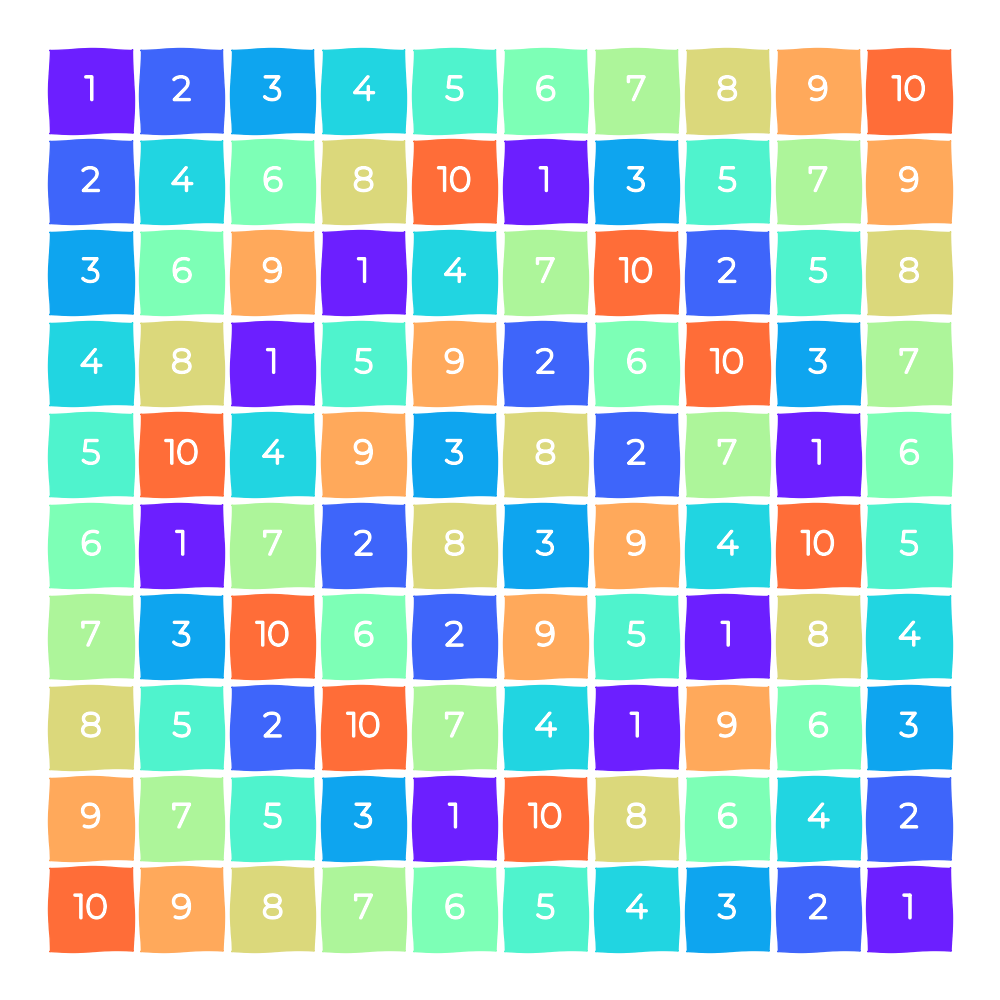
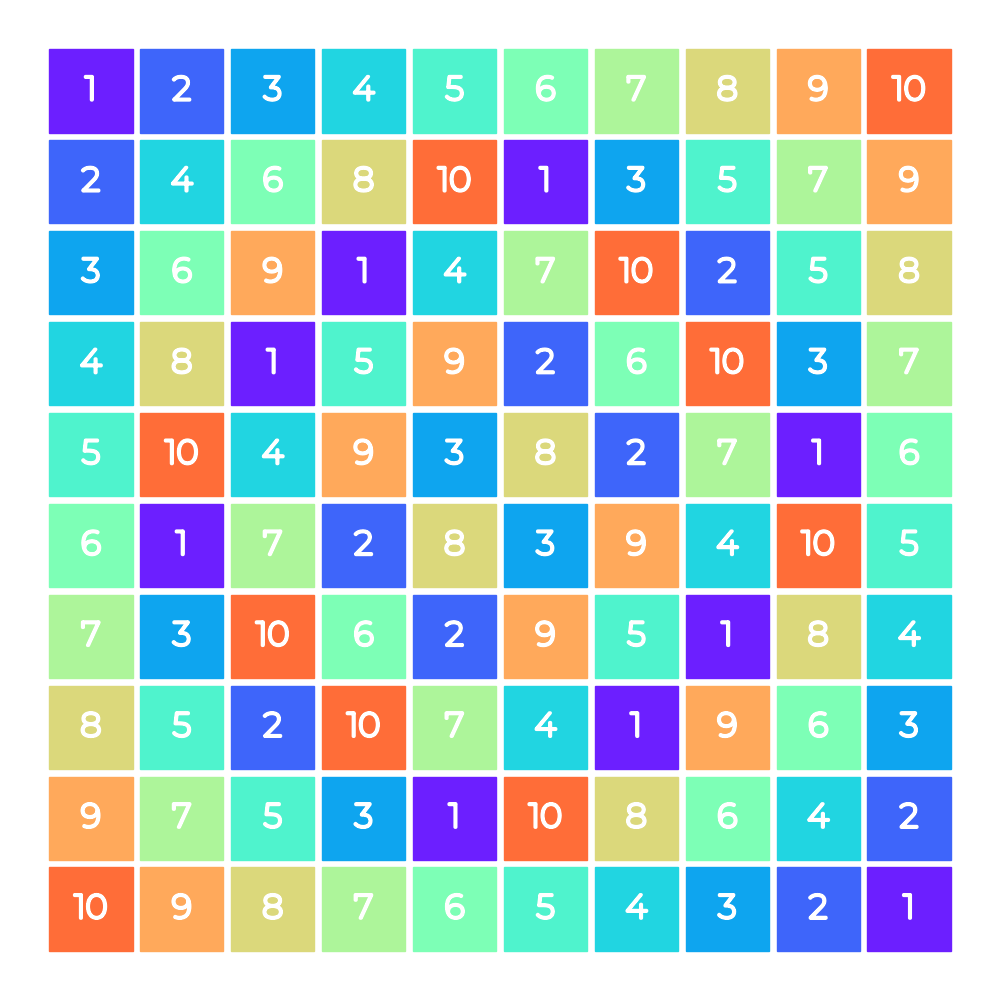
nice additions

diff --git a/bens_nmodesquare.py b/bens_nmodesquare.py
@@ -9,6 +9,8 @@ import matplotlib.colors
 
 import os
 
+ntot = 11
+
 thecolors = {
 'vaal': { # Childish
     0: 'lightcoral',
@@ -54,10 +56,11 @@ thecolors = {
 def get_color(n,name):
     import matplotlib.colors as mcolors
     import matplotlib
+    global ntot
     if name == "colorwheel":
-        phase = -0.05
+        phase = -0.05#-0.025#
         # # print(n,n/11+phase)
-        h = (n/11)+phase
+        h = (n/ntot)+phase
         if h > 1:
             h = h-1
         # h = 1-h
@@ -86,7 +89,7 @@ def load_matplotlib_local_fonts(fname):
     
     
 def make_fig(fname, n,fontname,colorsname,fontcolor):
-    plt.xkcd()
+    # plt.xkcd()
     
     
     
@@ -123,19 +126,19 @@ def make_fig(fname, n,fontname,colorsname,fontcolor):
     
     
 def main(): 
-    
+    global ntot
     fontname = 'xkcd-script.ttf'
-    n = 11
+    n = ntot
     colorsname = 'speels'
     fontcolor = 'w'
     i = 0
-    for fontname in ['Montserrat-VariableFont_wght.ttf','xkcd-script.ttf']:#'xkcd.otf',
+    for fontname in ['Montserrat-VariableFont_wght.ttf']:#,'xkcd-script.ttf']:#'xkcd.otf',
         fontcolor='k' if 'xkcd' in fontname else 'w'
-        for colorsname in ['colorwheel','vaal','speels']:
-            fname = '%s.png'%('abcdefghijklmnopqrstuvwxyz'[i])
-            i += 1
-            # fname = "bens_nmod_square_%i_%s_%s_%s.png"%(n,fontname,colorsname,fontcolor)
-            # fname = fname.replace('.otf','').replace('.ttf','')
+        for colorsname in ['colorwheel']:#,'vaal','speels']:
+            # fname = '%s.png'%('abcdefghijklmnopqrstuvwxyz'[i])
+            # i += 1
+            fname = "bens_nmod_square_%i_%s_%s_%s.png"%(n,fontname,colorsname,fontcolor)
+            fname = fname.replace('.otf','').replace('.ttf','')
             
             
             
